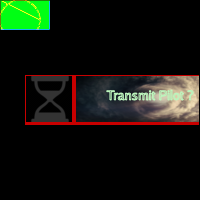
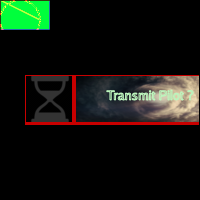
Fixed colors and buttons

Changed region(s): [[0.0, 0.0, 0.27, 0.15]]

diff --git a/button.go b/button.go
@@ -12,19 +12,9 @@ func NewButton(title string, p *Window, dims ...int) *Window {
 		log.Fatal("Cannot Create Widget without Application")
 	}
 	btn := newWindow(p.Window.X, p, title, dims...)
-	btn.isButton = true
-
 	// btn.SetTitle(title)
-	// btn.Rect = newRect(dims...)
-
-	// sshot, gerr := xgraphics.NewDrawable(X, xproto.Drawable(btn.Window.Id))
-	// if gerr != nil {
-	// 	log.Println("Error Loading Drawable Image ", gerr)
-	// }
-	// sshot.XShowExtra("nothing", )
-	// log.Println("Trying to save ", btn.Title()+".png")
-	// sshot.SavePng(btn.Title() + ".png")
-
+	btn.isButton = true
+	btn.rePaint(StateNormal)
 	return btn
 }
 
@@ -33,7 +23,7 @@ func NewToggleButton(title string, p *Window, dims ...int) *Window {
 	btn := newWindow(p.Window.X, p, title, dims...)
 	btn.isButton = true
 	btn.isCheckBox = true
-
+	btn.rePaint(StateNormal)
 	// btn.SetTitle(title)
 	// btn.Rect = newRect(dims...)
 
@@ -47,44 +37,3 @@ func NewToggleButton(title string, p *Window, dims ...int) *Window {
 
 	return btn
 }
-
-// // drawGopher draws the gopher image to the canvas.
-// func drawGopher(canvas *xgraphics.Image, gopher image.Image,
-// 	win *xwindow.Window) {
-
-// 	// Find the rectangle of the canvas where we're going to draw the gopher.
-
-// 	gopherRect := image.Rect(50, 50, 200, 200) // midRect(x, y, gopherWidth, gopherHeight, width, height)
-
-// 	// If the rectangle contains no pixels, don't draw anything.
-// 	if gopherRect.Empty() {
-// 		return
-// 	}
-
-// 	// Output a little message.
-// 	// log.Printf("Drawing gopher at (%d, %d)", x, y)
-
-// 	// Get a subimage of the gopher that's in sync with gopherRect.
-// 	gopherPt := image.Pt(0, 0)
-// 	// gopherPt := image.Pt(gopher.Bounds().Min.X, gopher.Bounds().Min.Y)
-
-// 	// if gopherRect.Min.X == 0 {
-// 	// 	gopherPt.X = gopherWidth - gopherRect.Dx()
-// 	// }
-// 	// if gopherRect.Min.Y == 0 {
-// 	// 	gopherPt.Y = gopherHeight - gopherRect.Dy()
-// 	// }
-
-// 	// Create the canvas subimage.
-// 	subCanvas := canvas.SubImage(gopherRect).(*xgraphics.Image)
-
-// 	// Blend the gopher image into the sub-canvas.
-// 	// This does alpha blending.
-// 	xgraphics.Blend(subCanvas, gopher, gopherPt)
-
-// 	// Now draw the changes to the pixmap.
-// 	subCanvas.XDraw()
-
-// 	// And paint them to the window.
-// 	subCanvas.XPaint(win.Id)
-// }

diff --git a/label.go b/label.go
@@ -7,20 +7,20 @@ import (
 	"github.com/BurntSushi/xgbutil/xgraphics"
 )
 
-type AlignMode int
+type TextAlign int
 
 const (
-	AlignTopLeft AlignMode = iota
-	AlignHVCenter
-	AlignHCenter
-	AlignVCenter
+	TextAlignTopLeft TextAlign = iota
+	TextAlignHVCenter
+	TextAlignHCenter
+	TextAlignVCenter
 )
 
 type Label struct {
 	*Widget
 	// title      string
 	autoresize bool
-	align      AlignMode
+	align      TextAlign
 	fsize      float64
 }
 
@@ -31,7 +31,7 @@ func NewLabel(title string, p *Window, dims ...int) *Label {
 	lbl := new(Label)
 	lbl.Widget = WidgetFactory(p, dims...)
 	lbl.init()
-	lbl.SetAlignMode(AlignHVCenter)
+	lbl.SetAlignMode(TextAlignHVCenter)
 	lbl.SetLabel(title)
 
 	// tbox.Create(p, dims...)
@@ -46,7 +46,7 @@ func (l *Label) AutoResize(auto bool) *Label {
 	return l
 }
 
-func (l *Label) SetAlignMode(align AlignMode) *Label {
+func (l *Label) SetAlignMode(align TextAlign) *Label {
 	l.align = align
 	l.SetLabel(l.title)
 	return l
@@ -54,6 +54,8 @@ func (l *Label) SetAlignMode(align AlignMode) *Label {
 
 func (l *Label) SetFontSize(size float64) *Label {
 	l.fsize = size
+	l.gc.SetFontSize(float64(l.fsize))
+
 	l.SetLabel(l.title)
 	return l
 }
@@ -87,7 +89,6 @@ func (l *Label) SetLabel(lbl string) {
 func (t *Label) updateLabel(state WidgetState) {
 	// log.Println("updateing text")
 	// W, H := float64(t.Width()), float64(t.Height())
-
 	// // gc := t.Context()
 	// // gc.SetFillColor(color.RGBA{0, 255, 200, 255})
 	// // gc.SetStrokeColor(color.RGBA{255, 200, 0, 255})
@@ -95,9 +96,25 @@ func (t *Label) updateLabel(state WidgetState) {
 	// // gc.StrokeStringAt(t.title, 0, 0)
 	// // gc.FillStroke()
 	// // gc.Close()
+
+	// t.gc.SetFontSize(float64(t.fsize))
+	// r.MoveTo(0, 0)
+	// r.ImageRect()
+	// W, H := float64(t.Width()), float64(t.Height())
+	// gc := t.Context()
+	// gc.SetFillColor(t.bgColor)
+	// gc.SetStrokeColor(t.lineColor)
+	// draw2dkit.Rectangle(gc, 0, 0, W, H)
+	// gc.FillStroke()
+	// gc.Close()
+
+	// t.canvas.XSurfaceSet(t.xwin.Id)
+
+	// t.gc.SetFontSize(float64(t.fsize))
+
 	t.drawBackground()
 	var xpos, ypos int
-	if t.align == AlignHVCenter {
+	if t.align == TextAlignHVCenter {
 		tw, th := xgraphics.Extents(systemFont, t.fsize, t.title)
 		xpos, ypos = t.Width()-tw, t.Height()-th
 		xpos, ypos = xpos/2, ypos/2

diff --git a/window.go b/window.go
@@ -425,13 +425,8 @@ func (w *Window) drawBackground(s WidgetState) {
 		gc.SetStrokeColor(systemFG)
 	}
 
-	gc.SetLineWidth(1)
-
-	// gc.SetLineJoin(draw2d.RoundJoin)
-	// gc.Rotate(math.Pi / 4.0)
-
 	ww, hh := float64(w.Width), float64(w.Height)
-	margin := 1.0
+	margin := w.margin
 	ww, hh = ww-margin, hh-margin
 	// cx, cy := ww/2, hh/2
 	// Draw a closed shape
@@ -699,24 +694,23 @@ func newWindow(X *xgbutil.XUtil, p *Window, t string, dims ...int) *Window {
 	r := newRect(dims...)
 	win, err := xwindow.Generate(X)
 	// s := X.Screen()
-	w.bgcolor = color.RGBA{0x20, 0x20, 0x20, 0xFF}
+	w.bgcolor = color.RGBA{0, 0, 0, 255} // Set default window background to black
 
 	// mask := xproto.GcForeground | xproto.GcGraphicsExposures
 	// values := []uint32{s.BlackPixel, 0}
-	win.Create(parent, r.X, r.Y, r.Width, r.Height, xproto.CwBackPixel, 0xfffff)
-	win.Map()
-
-	// win.Create(parent, r.X, r.Y, r.Width, r.Height, mask, values...)
-	if err != nil {
-		log.Fatal(err)
-	}
-	// win.MoveResize(r.X, r.Y, r.Width, r.Height)
-	if p == nil {
-		win.Change(xproto.CwBackPixel, 0x684426)
-
-	} else {
+		win.Create(parent, r.X, r.Y, r.Width, r.Height, 0)
+		win.Map()
+	
+		// win.Create(parent, r.X, r.Y, r.Width, r.Height, mask, values...)
+		if err != nil {
+			log.Fatal(err)
+		}
+		// win.MoveResize(r.X, r.Y, r.Width, r.Height)
+		// if p == nil {
+		// 	win.Change(xproto.CwBackPixel, 0x000000) // Set root window background to black
+		// } else {
 		// win.Change(xproto.CwBackPixel, 0xFFAA00)
-	}
+		// }
 
 	//if p == nil {
 	win.Listen(xproto.EventMaskKeyPress, xproto.EventMaskKeyRelease, xproto.EventMaskButtonPress, xproto.EventMaskButtonRelease, xproto.EventMaskExposure, xproto.EventMaskEnterWindow, xproto.EventMaskLeaveWindow, xproto.EventMaskKeyPress)
@@ -803,7 +797,11 @@ func RandomGraph(r image.Rectangle) *image.RGBA {
 
 // PaintOnce draws the window's background and label a single time.
 func (w *Window) PaintOnce() {
-	w.drawBackground(StateNormal)
+	if w.isButton {
+		w.drawBackground(StateNormal)
+	} else {
+		w.drawView(StateNormal)
+	}
 	w.finishPaint(w.ximg)
 }
 

diff --git a/imgbutton.go b/imgbutton.go
@@ -33,7 +33,7 @@ func NewImgButton(title string, p *Window, dims ...int) *ImgButton {
 	}
 	tbox := new(ImgButton)
 	tbox.Widget = WidgetFactory(p, dims...)
-	tbox.fname = "hg.png"
+	// tbox.fname = "hg.png"
 	tbox.init()
 	xevent.KeyPressFun(tbox.keybHandler).Connect(tbox.xu, tbox.xwin.Id)
 
@@ -43,6 +43,13 @@ func NewImgButton(title string, p *Window, dims ...int) *ImgButton {
 	// tbox.loadTheme()
 	// pbar.SetValue(0.5)
 	return tbox
+}
+
+func (t *ImgButton) ResizeWidget(w, h int) {
+	t.Win().ReSize(w, h)
+	t.Widget.Resize(0, 0, w, h)
+	t.setupCanvas()
+
 }
 
 func (t *ImgButton) registerHandlers() {
@@ -60,6 +67,8 @@ func (t *ImgButton) DrawImage(img image.Image) {
 
 	// rgb := image.NewRGBA(img.Bounds())
 	rgb := t.canvas
+	// print the bounds
+
 	draw.Draw(rgb, rgb.Bounds().Bounds(), img, image.Point{0, 0}, draw.Src)
 
 	// t.canvas.For(func(x, y int) xgraphics.BGRA {

diff --git a/textbox.go b/textbox.go
@@ -27,7 +27,7 @@ type TextBox struct {
 	readOnly  bool
 }
 
-//NewTextBox creates a child TextBox widget in the roots of Window p
+// NewTextBox creates a child TextBox widget in the roots of Window p
 func NewTextBox(title string, p *Window, dims ...int) *TextBox {
 	if p == nil {
 		log.Fatal("Cannot Create Widget without Application")
@@ -118,6 +118,14 @@ func (t *TextBox) keybHandler(X *xgbutil.XUtil, e xevent.KeyPressEvent) {
 	// 	fn()
 	// }
 
+}
+
+func (t *TextBox) SetFontSize(size int) *TextBox {
+	t.fsize = size
+	t.gc.SetFontSize(float64(t.fsize))
+
+	t.SetText(t.title)
+	return t
 }
 
 func (t *TextBox) SetText(txt string) {
@@ -291,7 +299,7 @@ func (t *TextBox) init() {
 }
 
 func (t *TextBox) drawTextBox(s WidgetState) {
-	t.gc.SetFontSize(15)
+
 	// r.MoveTo(0, 0)
 	// r.ImageRect()
 	W, H := float64(t.Width()), float64(t.Height())

diff --git a/application.go b/application.go
@@ -298,7 +298,7 @@ func (s *Application) defaultWindow() {
 	w, h := int(sinfo.WidthInPixels)/2, int(sinfo.HeightInPixels)/2
 	w, h = s.defW, s.defH
 
-	s.appWin.Create(s.xu.RootWin(), 0, 0, w, h, xproto.CwBackPixel, 0x101010)
+	s.appWin.Create(s.xu.RootWin(), 0, 0, w, h, xproto.CwBackPixel, 0x000000)
 	s.appWin.prevRect = s.appWin.Rect
 	ewmh.WmAllowedActionsSet(s.xu, s.appWin.Id, []string{
 		"_NET_WM_ACTION_MOVE",
@@ -689,7 +689,7 @@ func (a *Application) NewChildWindow(title string, dims ...int) *Window {
 	a.pvsChildRect = r
 
 	// w.SetBackGround(colorful.LinearRgb(0, 0, 0))
-	w.bgcolor = color.RGBA{100, 100, 100, 255}
+	w.bgcolor = color.RGBA{0, 0, 0, 255}
 	w.drawView(StateNormal)
 	w.finishPaint(w.ximg)
 	// w.SetTitle(title)

diff --git a/support.go b/support.go
@@ -47,6 +47,31 @@ func (r *Rect) Grow(dw, dh int) *Rect {
 	return r
 }
 
+func (r *Rect) WithPadding(dx, dy int) Rect {
+	return Rect{
+		X:      r.X + dx,
+		Y:      r.Y + dy,
+		Width:  r.Width - 2*dx,
+		Height: r.Height - 2*dy,
+	}
+}
+
+// Alignment specifies the position relative to a parent.
+type Alignment int
+
+const (
+	AlignNone Alignment = iota
+	AlignTopLeft
+	AlignTopCenter
+	AlignTopRight
+	AlignMiddleLeft
+	AlignCenter
+	AlignMiddleRight
+	AlignBottomLeft
+	AlignBottomCenter
+	AlignBottomRight
+)
+
 func (r *Rect) array() []int {
 	result := []int{r.X, r.Y, r.Width, r.Height}
 	return result

diff --git a/widget.go b/widget.go
@@ -263,6 +263,19 @@ func (w *Widget) SetTitle(title string) {
 	w.title = title
 }
 
+func (w *Widget) Move(x, y int) {
+	w.xwin.Move(x, y)
+	var err error
+	w.Rect, err = w.xwin.Geometry()
+	if err != nil {
+		log.Printf("Error getting geometry after move: %v", err)
+	}
+}
+
+func (w *Widget) Align(alignment Alignment) {
+	w.Win().Align(alignment)
+}
+
 func (w *Widget) keybHandler(X *xgbutil.XUtil, e xevent.KeyPressEvent) {
 
 	modStr := keybind.ModifierString(e.State)

diff --git a/samples/label/main.go b/samples/label/main.go
@@ -16,7 +16,7 @@ func main() {
 	child := ap.NewChildWindow("Hello world", 0, 0, 300, 100)
 	child.SetBGcolor(color.RGBA{100, 0, 0, 30})
 	l = x11ui.NewLabel("Welcome to 1st Pin ", child, 10, 10, 150, 30)
-	l.SetAlignMode(x11ui.AlignHVCenter)
+	l.SetAlignMode(x11ui.TextAlignHVCenter)
 	l.AutoResize(true)
 	// l.Ho = hello
 	go hello()

diff --git a/scrollview.go b/scrollview.go
@@ -11,7 +11,7 @@ type ScrollView struct {
 	*Widget
 	title         string
 	autoresize    bool
-	align         AlignMode
+	align         Alignment
 	margins       int
 	basewidgets   []*Widget
 	viewWidget    *Widget
